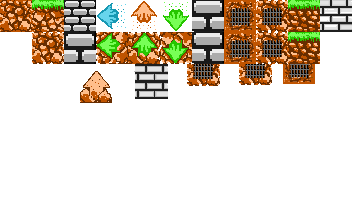
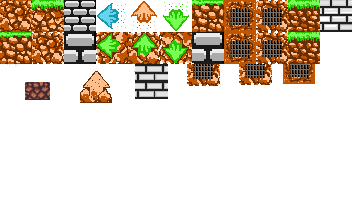
Added a tile with dirt and grass and

Changed region(s): [[0.5312, 0.0, 0.6562, 0.1722], [0.0, 0.1435, 0.0938, 0.3158], [0.0625, 0.3732, 0.1562, 0.488]]

diff --git a/levels2b.py b/levels2b.py
@@ -5,8 +5,8 @@ layout = [[[' ', ' ', ' ', ' ', ' ', ' ', '8', '2', '2', '2', '2', '2', '2', '2'
 ['10', ' ', '10', ' ', ' ', ' ', '8', ' ', ' ', ' ', ' ', ' ', ' ', ' ', ' ', '2'],
 ['10', '10', '10', ' ', ' ', ' ', '0', '8', '0', '8', '0', '8', '0', '8', '0', '2'],
 ['10', ' ', '10', '10', ' ', ' ', ' ', ' ', ' ', ' ', ' ', ' ', ' ', ' ', ' '],
-['10', '10', '10', '10', ' ', ' ', '0', '8', '0', '8', '0', '8', '0', '8', '0'],
-['0', '0', '0', '0', '0', '0', '0', '0', '0', '0', '0', '0', '0', '0', '0'],
+['10', '10', '10', '10', ' ', ' ', ' ', ' ', ' ', ' ', ' ', ' ', ' ', ' ', ' '],
+['6', '9', '6', '9', '6', '9', '6', '9', '6', '9', '6', '9', '6', '9', '6'],
 ],[[' ', ' ', ' ', ' ', ' ', ' ', '8', '2', '2', '2', '2', '2', '2', '2', '2'],
 ['10', '10', '10', '10', ' ', ' ', '0', '2', 'C', 'C', 'C', ' ', ' ', ' ', ' ', ' '],
 ['10', ' ', '10', ' ', ' ', ' ', '8', '2', ' ', ' ', ' ', ' ', ' ', ' ', ' ', ' '],
@@ -14,8 +14,8 @@ layout = [[[' ', ' ', ' ', ' ', ' ', ' ', '8', '2', '2', '2', '2', '2', '2', '2'
 ['10', ' ', '10', ' ', ' ', ' ', '8', ' ', ' ', ' ', ' ', ' ', ' ', ' ', ' ', '2'],
 ['10', '10', '10', ' ', ' ', ' ', '0', '8', '0', '8', '0', '8', '0', '8', '0', '2'],
 ['10', ' ', '10', '10', ' ', ' ', ' ', ' ', ' ', ' ', ' ', ' ', ' ', ' ', ' '],
-['10', '10', '10', '10', ' ', ' ', '0', '8', '0', '8', '0', '8', '0', '8', '0'],
-['0', '0', '0', '0', '0', '0', '0', '0', '0', '0', '0', '0', '0', '0', '0'],
+['10', '10', '10', '10', ' ', ' ', ' ', ' ', ' ', ' ', ' ', ' ', ' ', ' ', ' '],
+['6', '9', '6', '9', '6', '9', '6', '9', '6', '9', '6', '9', '6', '9', '6'],
 ],[['2', '2', '2', '2', '2', '2', '2', '2', '2', ' ', ' ', ' ', ' ', ' ', ' '],
 ['2', ' ', '2', ' ', '2', ' ', '2', ' ', '2', ' ', ' ', ' ', ' ', ' ', ' '],
 [' ', ' ', ' ', ' ', ' ', ' ', ' ', ' ', ' ', ' ', ' ', ' ', ' ', ' ', ' '],

diff --git a/GAME3.py b/GAME3.py
@@ -312,7 +312,7 @@ def music_on():
 
 # str_num_tiles = [str(x) for x in range(NUM_OF_TILES)]
 # str_num_tiles = "".join(str_num_tiles)
-
+music_on()
 
 while run:
     ### level generation
